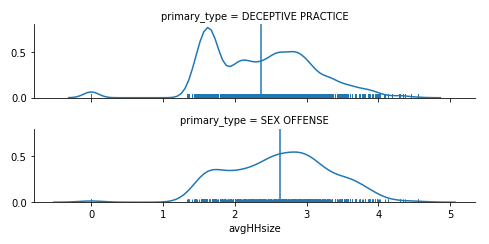
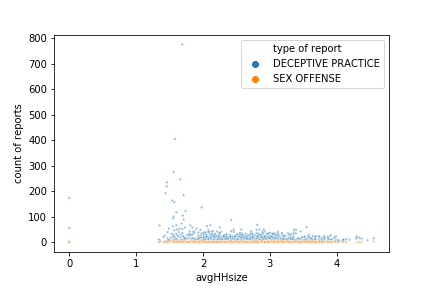
more graphs

diff --git a/exercise one/hw1.py b/exercise one/hw1.py
@@ -50,6 +50,9 @@ df_2018.to_csv('exercise one/alleged_crimes_2018.csv', index=False)
 df_2017 = pd.read_csv('exercise one/alleged_crimes_2017.csv')
 df_2018 = pd.read_csv('exercise one/alleged_crimes_2018.csv')
 
+df_2017.size
+df_2018.size
+
 # Number of crimes of each type
 grouped_by_crime_2017 = df_2017.groupby(
     'primary_type').size().sort_values(ascending=False)
@@ -88,17 +91,51 @@ b.savefig("exercise one/not common crimes.png")
 df_2017 = pd.read_csv('exercise one/alleged_crimes_2017.csv')
 df_2018 = pd.read_csv('exercise one/alleged_crimes_2018.csv')
 
+df_all = df_2017.append(df_2018, ignore_index=True)
+
 df = df_2018.groupby(['year', 'community_area', 'primary_type']).size(
                      ).reset_index()
+df_all = df_all.groupby(['year', 'community_area', 'primary_type']).size(
+                     ).reset_index()
 df.columns = ['year', 'community_area', 'type of crime', 'count']
+df_all.columns = ['year', 'community_area', 'type of crime', 'count']
 
 community_area_names = pd.read_csv('exercise one/CommAreas.csv')
-community_area_names.head()
 community_area_names = community_area_names[['AREA_NUMBE', 'COMMUNITY']]
 df = df.merge(
     community_area_names,
     how='left', left_on='community_area', right_on='AREA_NUMBE')
 df = df.dropna(subset=['AREA_NUMBE'])
+
+df_all = df_all.merge(
+    community_area_names,
+    how='left', left_on='community_area', right_on='AREA_NUMBE')
+df_all = df_all.dropna(subset=['AREA_NUMBE'])
+
+df_all = df_all.groupby(['year',
+                         'COMMUNITY',
+                         'type of crime']).sum().unstack('year')[
+                'count'].reset_index()
+df_all.fillna(0, inplace=True)
+df_all['diff'] = df_all[2018] - df_all[2017]
+df_all.sort_values('diff')
+df_all.sort_values('diff').loc[df_all['type of crime'] == 'HOMICIDE']
+
+g = sns.distplot(df_all.loc[df_all['type of crime'] == 'THEFT', 'diff'])
+plt.axvline(df_all.loc[df_all['type of crime'] == 'THEFT', 'diff'].mean(),
+            color='k', linestyle='dashed', linewidth=1)
+fig = plt.gcf()
+fig.savefig('exercise one/change in thefts.png')
+sns.distplot(df_all.loc[df_all['type of crime'] == 'BATTERY', 'diff'])
+plt.axvline(df_all.loc[df_all['type of crime'] == 'BATTERY', 'diff'].mean(),
+            color='k', linestyle='dashed', linewidth=1)
+fig = plt.gcf()
+fig.savefig('exercise one/change in battery.png')
+sns.distplot(df_all.loc[df_all['type of crime'] == 'HOMICIDE', 'diff'])
+plt.axvline(df_all.loc[df_all['type of crime'] == 'HOMICIDE', 'diff'].mean(),
+            color='k', linestyle='dashed', linewidth=1)
+fig = plt.gcf()
+fig.savefig('exercise one/change in homicides.png')
 
 grouped_df = df.groupby(['COMMUNITY', 'type of crime']).sum().reset_index(
                         )[['COMMUNITY', 'type of crime', 'count']].sort_values(
@@ -318,33 +355,50 @@ plot_multi_year('avgHHsize', 'HOMICIDE')
 plot_multi_year('shareInPov', 'HOMICIDE')
 
 
-def plot_two_vars(outcome, crime):
-    temp_df = merged_2018.loc[merged_2018['primary_type'] == crime,
-                                         ['geoid10', 'year', outcome]].groupby(
-                                         ['year',
+def plot_two_vars(outcome, crime1, crime2):
+    temp_df = merged_2018.loc[(merged_2018['primary_type'] == crime1) |
+                              (merged_2018['primary_type'] == crime2),
+                              ['geoid10',
+                               'primary_type',
+                               outcome]].groupby(
+                                         ['primary_type',
                                           'geoid10']).count().reset_index()
-    varname = 'count of ' + crime + ' reports'
-    temp_df.columns = ['year', 'geoid10', varname]
+    varname = 'count of reports'
+    temp_df.columns = ['type of report', 'geoid10', varname]
     temp_df = pd.merge(temp_df,
-                       both_years.loc[both_years.primary_type == crime],
+                       merged_2018.loc[
+                                (merged_2018['primary_type'] == crime1) |
+                                (merged_2018['primary_type'] == crime2),
+                                ['geoid10', 'tractce10', outcome]],
                        on='geoid10', how='left')
-    temp_df = temp_df[['year_x', varname, outcome]]
-    temp_df.rename(columns={'year_x': 'year'}, inplace=True)
-    sns.lmplot(x=outcome, y=varname, data=temp_df,
-               col='year',
-               scatter_kws={'s': 6, 'alpha': 0.3},
-               lowess=True)
+    temp_df = temp_df[['type of report', varname, outcome]]
+    temp_df = temp_df.drop_duplicates()
+    sns.scatterplot(x=outcome, y=varname, data=temp_df,
+                    hue='type of report', s=6, alpha=0.5)
     fig = plt.gcf()
-    path = 'exercise one/' + 'both_years_' + crime + '_' + outcome + '.png'
+    path = 'exercise one/' + 'compare' + \
+        crime1 + '_' + crime2 + '_' + outcome + '.png'
     fig.savefig(path)
-    path = 'exercise one/' + 'compare' + crime1 + '_' + crime2 + '_' + outcome + '.png'
-    fig.savefig(path)
+    temp_df['weighted_amount'] = temp_df[varname] * temp_df[outcome]
+    total_num_reports_crime1 = temp_df.loc[
+                    temp_df['type of report'] == crime1, varname].sum()
+    total_num_reports_crime2 = temp_df.loc[
+                    temp_df['type of report'] == crime2, varname].sum()
+    weighted_avg_crime1 = temp_df.loc[
+                    temp_df['type of report'] == crime1,
+                    'weighted_amount'].sum() / total_num_reports_crime1
+    weighted_avg_crime2 = temp_df.loc[
+                    temp_df['type of report'] == crime2,
+                    'weighted_amount'].sum() / total_num_reports_crime2
+    print('weighted average for outcome: ',
+          outcome, " and crime: ", crime1, "is ", weighted_avg_crime1, '\n',
+          'weighted average for outcome: ',
+          outcome, " and crime: ", crime2, "is ", weighted_avg_crime2, '\n')
 
 
 plot_two_vars('medianFamInc', 'DECEPTIVE PRACTICE', 'SEX OFFENSE')
 plot_two_vars('avgHHsize', 'DECEPTIVE PRACTICE', 'SEX OFFENSE')
 plot_two_vars('shareInPov', 'DECEPTIVE PRACTICE', 'SEX OFFENSE')
-
 
 
 
